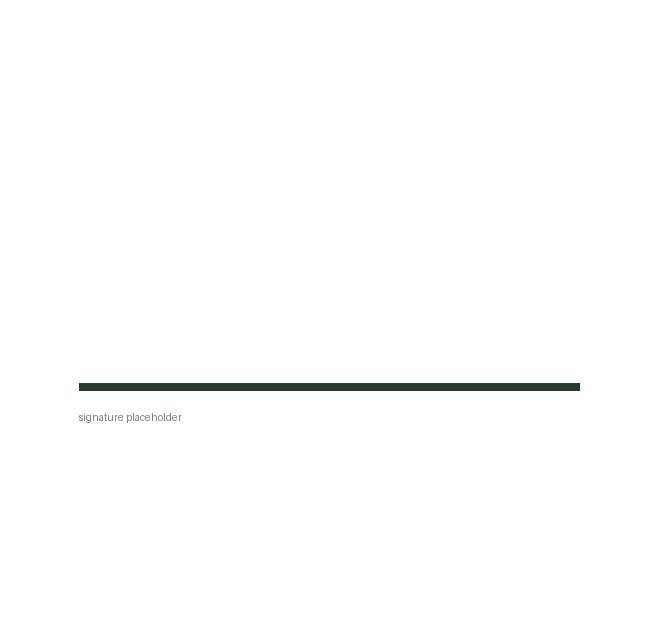
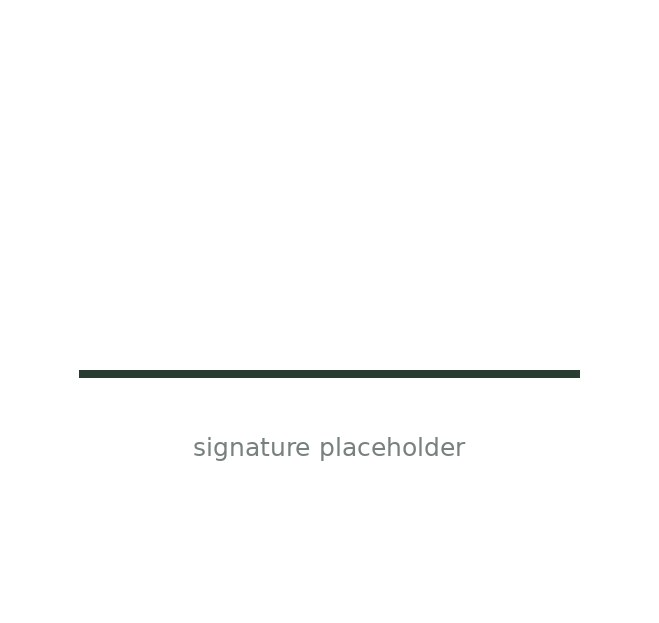
Replace the organisation's marks and print the demo accounts
The demo deployments still shipped the real lockup — it is the login page
background, so it was the first thing a visitor saw. Logos and the scanned
signature are now neutral placeholders at identical dimensions, and the
signature asset is renamed accordingly.

The login pages print their demo accounts and fill the form on click: a
visitor who reaches a login form with nothing to type leaves.

Changed region(s): [[0.1214, 0.5795, 0.8801, 0.6404], [0.2731, 0.7014, 0.698, 0.7319]]

diff --git a/app/login/page.tsx b/app/login/page.tsx
@@ -1,6 +1,7 @@
 import { Suspense } from "react";
 import Image from "next/image";
 import { LoginForm } from "./LoginForm";
+import { AkunDemo } from "./AkunDemo";
 // Static imports, not "/brand/*.png" strings: the auth middleware matches every
 // path except /_next/static, so a logged-out visitor asking for /brand/… is
 // redirected to /login and the logo breaks. Imported images are emitted under
@@ -55,6 +56,7 @@ export default function LoginPage() {
           <Suspense>
             <LoginForm />
           </Suspense>
+          <AkunDemo />
         </div>
       </main>
     </div>
